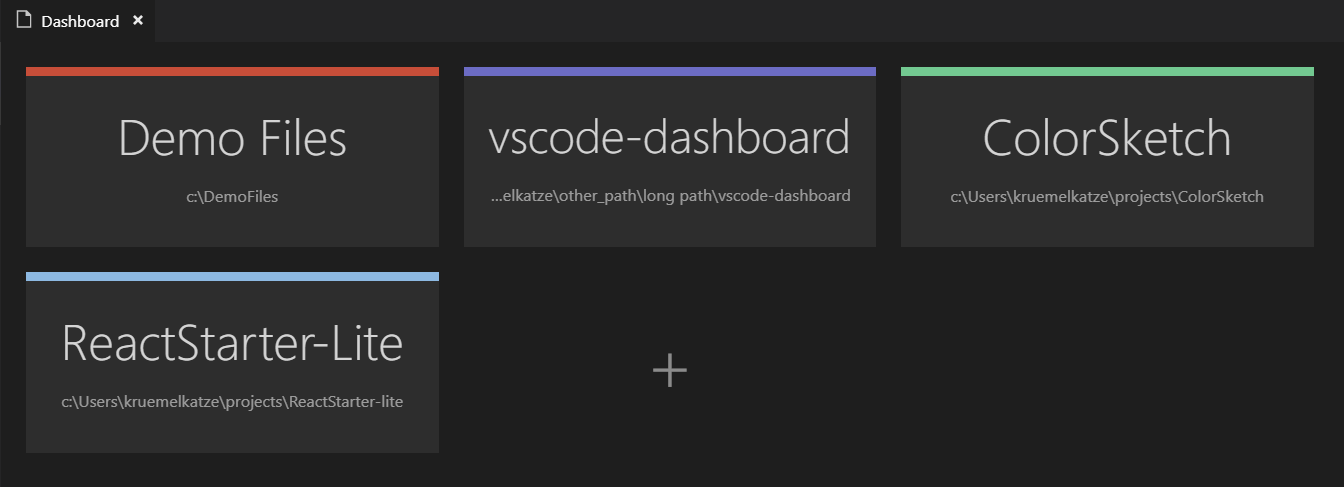
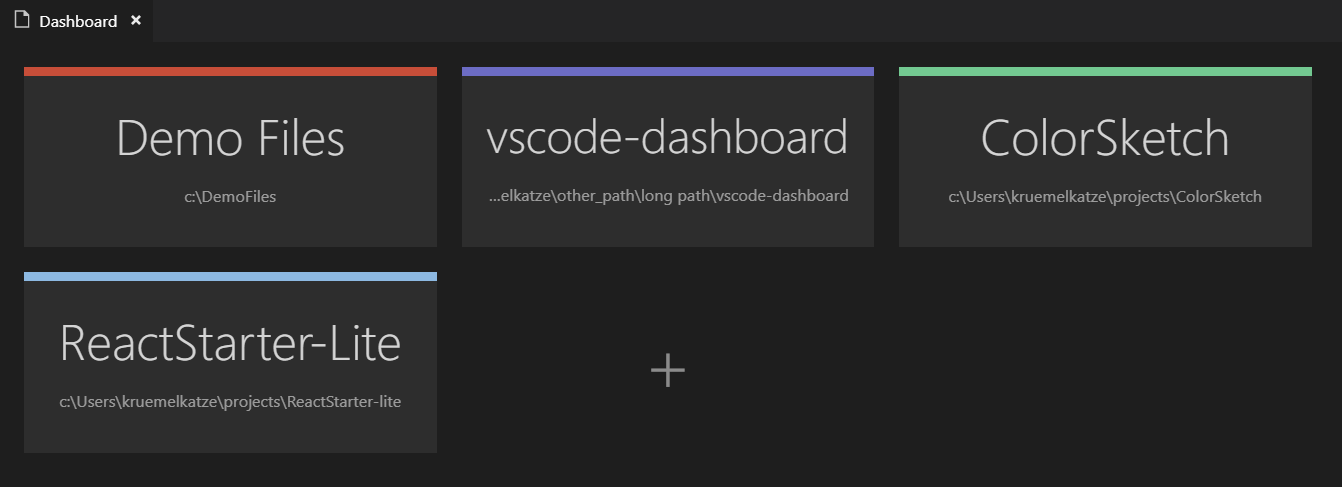
README and fixed Screenshot

diff --git a/README.md b/README.md
@@ -1,3 +1,27 @@
 # vscode-dashboard
 
-TODO :)
+**vscode-dashboard** is a Visual Studio Code extension that lets you organize your projects/workspaces in a speed-dial like manner. Pin your frequently visited folders and files onto a dashboard to access them quickly.
+
+![](screenshot.png)
+
+## Usage
+The dashboard is a dedicated webview inside vscode that is opened when the welcome page is shown. It can also be opened via command.
+
+Adding a workspace or file (project) can be done via command or button.  You are then prompted to provide a title, path and an optional color.
+
+Editing the project list currently has to be done manually by editing a JSON file.
+
+### Commands
+The commands should speak for themselves. :)
+* Dashboard: Open
+* Dashboard: Add Project
+* Dashboard: Edit Projects
+* Dashboard: Remove Projects
+
+
+
+## Changelog
+[View Changelog](CHANGELOG.md)
+
+## Notes
+Only colors defined by the theme were used. So the dashboard should always blend nicely into your VSCode design. 
